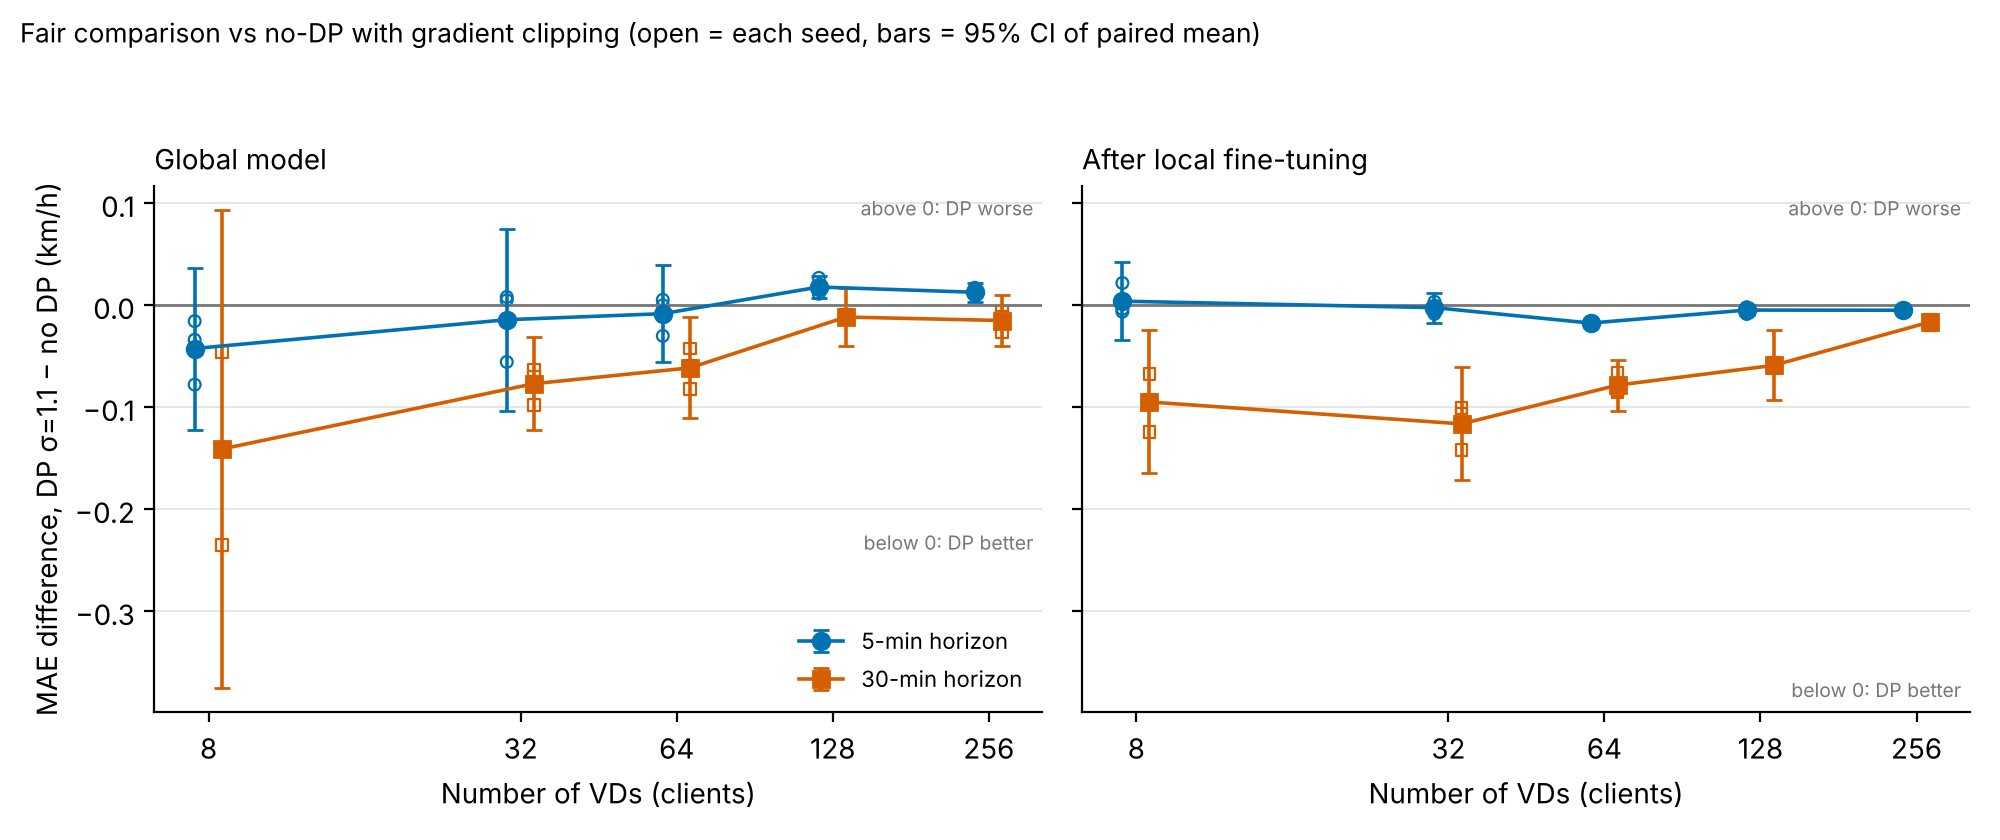
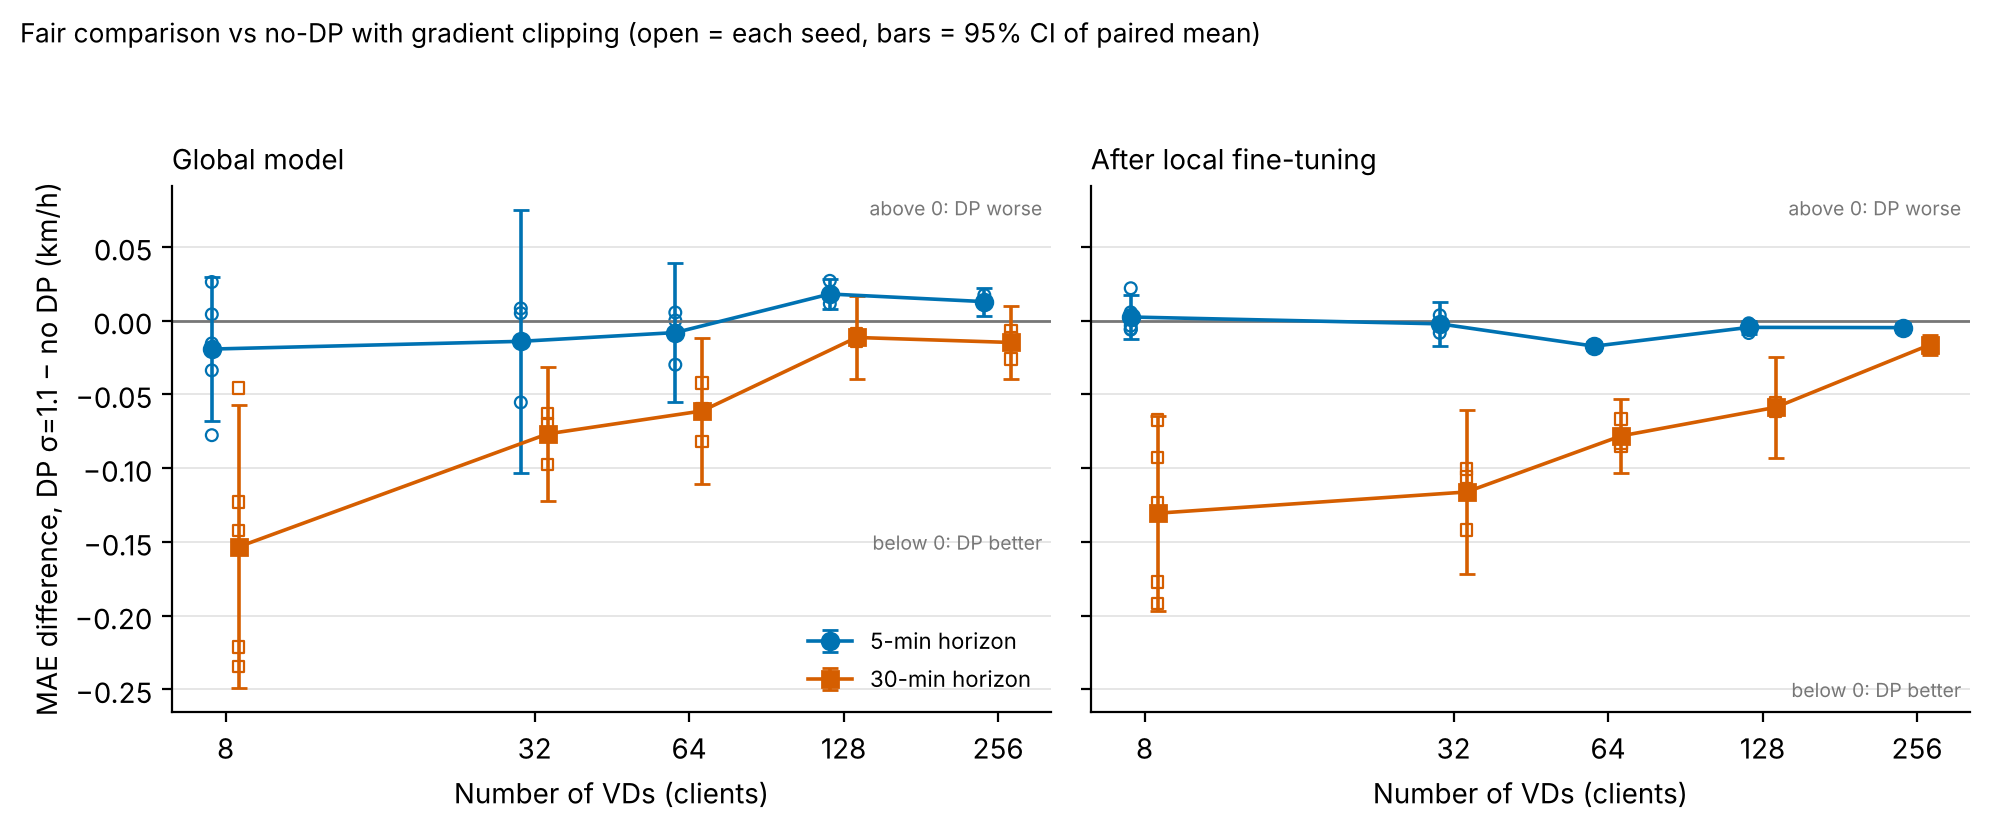
README/figure: 8 VD fair comparison, 5 seeds
Claude-Session: https://claude.ai/code/session_01EJ1mjjmKwMNR6cY38Rxgw7

diff --git a/scripts/plot_dp_vs_nodp.py b/scripts/plot_dp_vs_nodp.py
@@ -28,8 +28,8 @@ def _within(batch, seeds):
 
 # (VD 數, 預測分鐘) → [(seed, 無 DP 來源, DP 來源)]；來源 = (batch, run 名稱)
 PAIRS = {
-    (8, 5): _within("d8_fair", (1, 2, 3)),
-    (8, 30): _within("d8_h6_fair", (1, 2, 3)),
+    (8, 5): _within("d8_fair", (1, 2, 3)) + _within("d8_fair_s45", (4, 5)),
+    (8, 30): _within("d8_h6_fair", (1, 2, 3)) + _within("d8_h6_fair_s45", (4, 5)),
     (32, 5): _within("d32_fair", (1, 2, 3)),
     (32, 30): _within("d32_h6_fair", (1, 2, 3)),
     (64, 5): _within("d64_fair", (1, 2, 3)),
